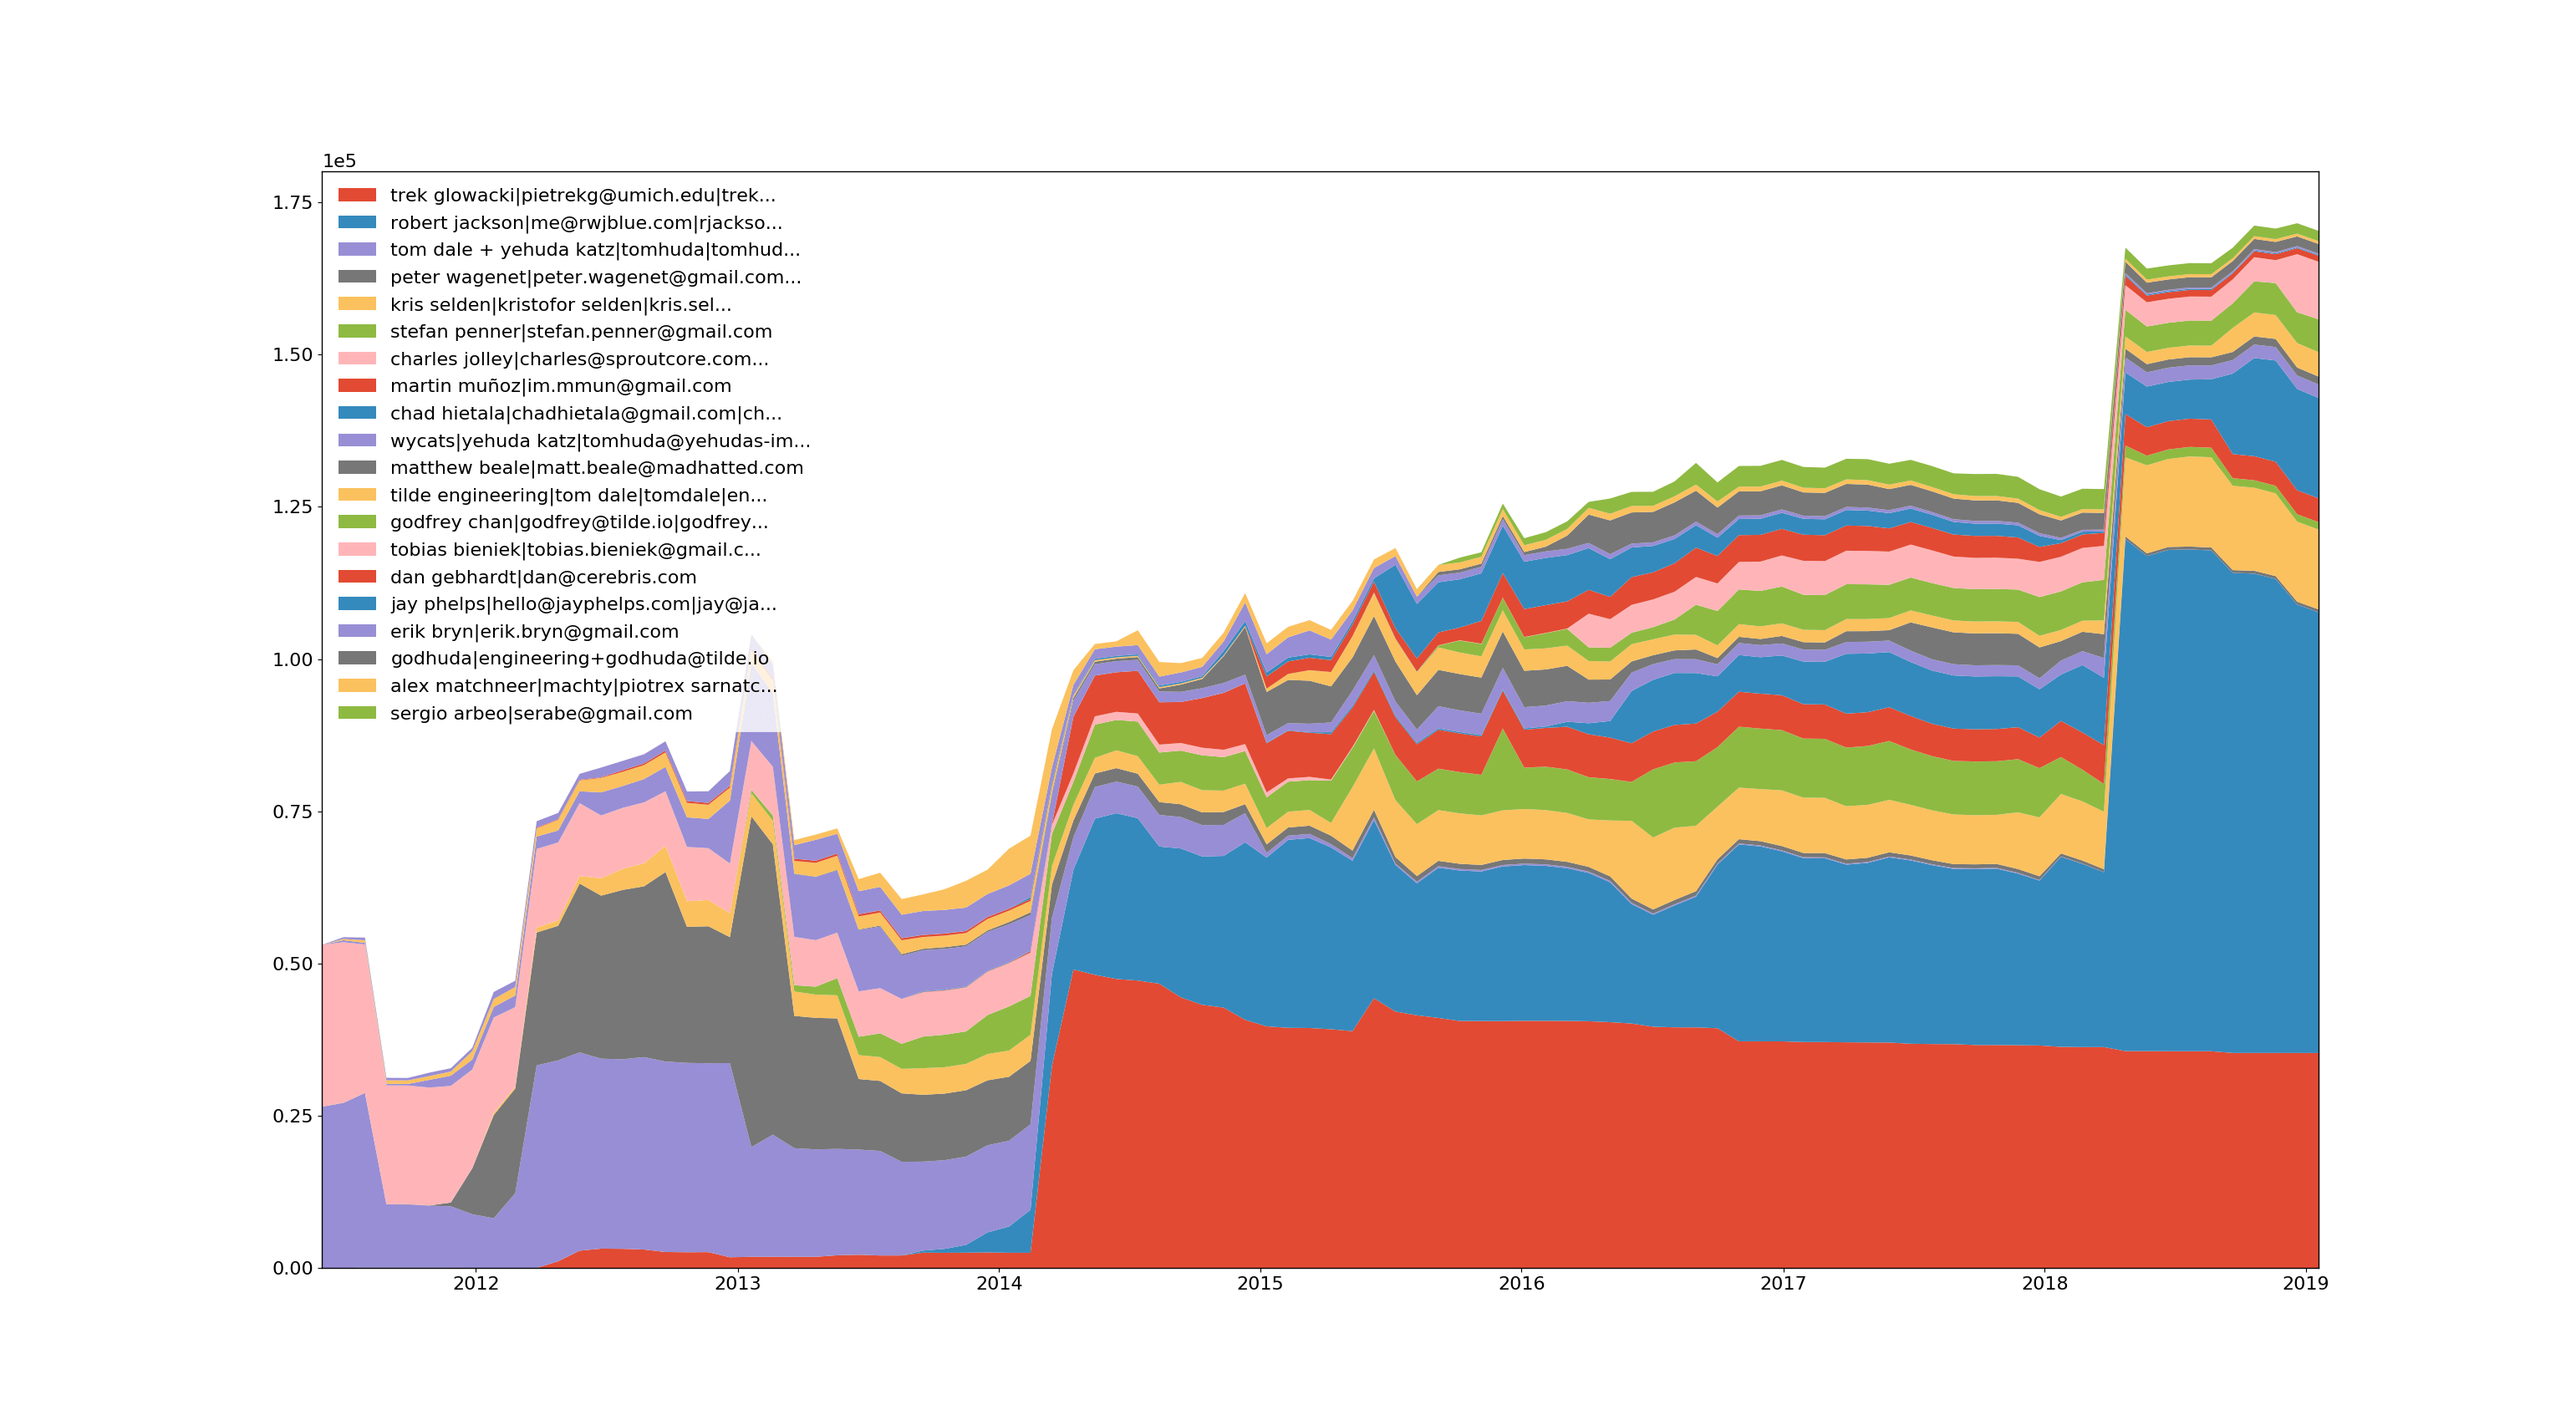
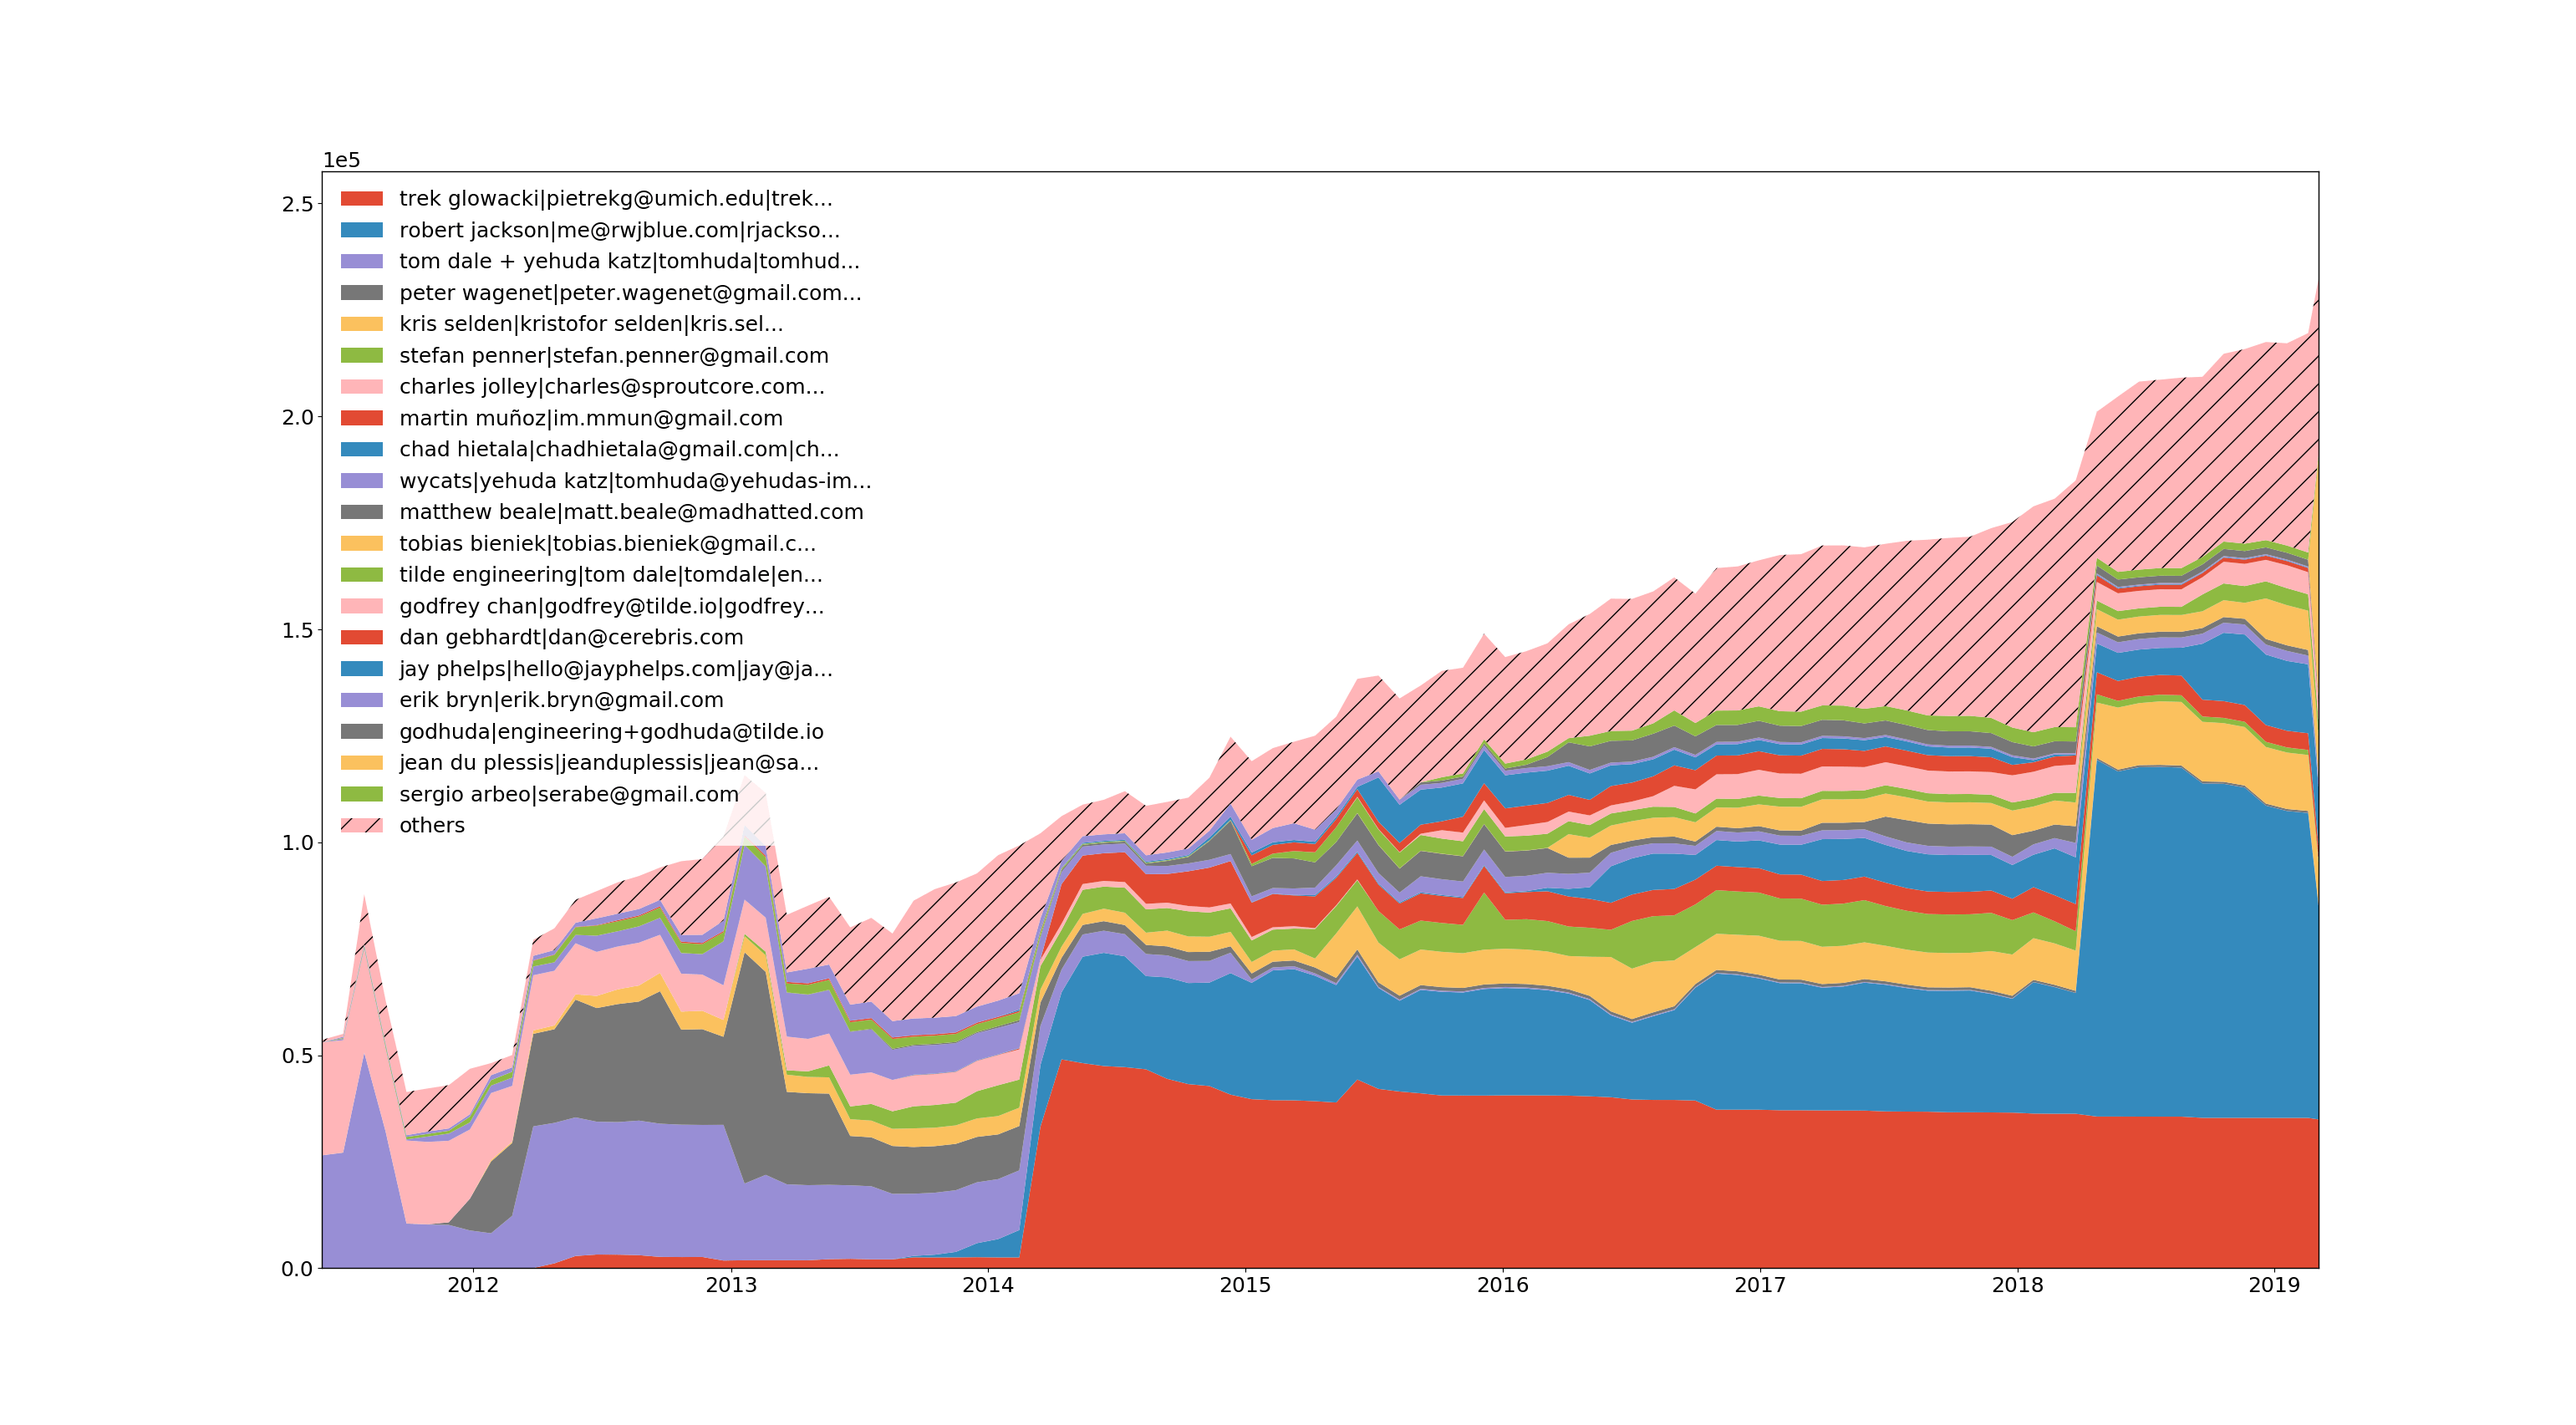
Add "efforts" plot and "others" to ownership

Changed region(s): [[0.1246, 0.1243, 0.9033, 0.9015], [0.218, 0.8704, 0.3115, 0.9015]]

diff --git a/labours.py b/labours.py
@@ -62,8 +62,8 @@ def parse_args():
     parser.add_argument("-m", "--mode",
                         choices=["burndown-project", "burndown-file", "burndown-person",
                                  "churn-matrix", "ownership", "couples-files", "couples-people",
-                                 "couples-shotness", "shotness", "sentiment",
-                                 "devs", "old-vs-new", "all", "run-times", "languages"],
+                                 "couples-shotness", "shotness", "sentiment", "devs",
+                                 "devs-efforts", "old-vs-new", "all", "run-times", "languages"],
                         help="What to plot.")
     parser.add_argument(
         "--resample", default="year",
@@ -662,9 +662,11 @@ def load_ownership(header, sequence, contents, max_people):
 
     if people.shape[0] > max_people:
         order = numpy.argsort(-people.sum(axis=1))
-        people = people[order[:max_people]]
-        sequence = [sequence[i] for i in order[:max_people]]
-        print("Warning: truncated people to most owning %d" % max_people)
+        chosen_people = people[order[:max_people + 1]]
+        chosen_people[max_people] = people[order[max_people:]].sum(axis=0)
+        people = chosen_people
+        sequence = [sequence[i] for i in order[:max_people]] + ["others"]
+        print("Warning: truncated people to the most owning %d" % max_people)
     for i, name in enumerate(sequence):
         if len(name) > 40:
             sequence[i] = name[:37] + "..."
@@ -921,7 +923,9 @@ def plot_ownership(args, repo, names, people, date_range, last):
 
     matplotlib, pyplot = import_pyplot(args.backend, args.style)
 
-    pyplot.stackplot(date_range, people, labels=names)
+    polys = pyplot.stackplot(date_range, people, labels=names)
+    if names[-1] == "others":
+        polys[-1].set_hatch("/")
     pyplot.xlim(parse_date(args.start_date, date_range[0]), parse_date(args.end_date, last))
 
     if args.relative:
@@ -1406,6 +1410,54 @@ def show_devs(args, name, start_date, end_date, data):
     deploy_plot(title, args.output, args.style)
 
 
+def show_devs_efforts(args, name, start_date, end_date, data, max_people):
+    from scipy.signal import convolve, slepian
+
+    days, people = data
+    start_date = datetime.fromtimestamp(start_date)
+    start_date = datetime(start_date.year, start_date.month, start_date.day)
+    end_date = datetime.fromtimestamp(end_date)
+    end_date = datetime(end_date.year, end_date.month, end_date.day)
+
+    efforts_by_dev = defaultdict(int)
+    for day, devs in days.items():
+        for dev, stats in devs.items():
+            efforts_by_dev[dev] += stats.Added + stats.Removed + stats.Changed
+    if len(efforts_by_dev) > max_people:
+        efforts_by_dev = sorted(((v, k) for k, v in efforts_by_dev.items()), reverse=True)
+        chosen = {v for k, v in efforts_by_dev[:max_people]}
+        print("Warning: truncated people to the most active %d" % max_people)
+    else:
+        chosen = set(efforts_by_dev)
+    chosen_efforts = sorted(((efforts_by_dev[k], k) for k in chosen), reverse=True)
+    chosen_order = {k: i for i, (_, k) in enumerate(chosen_efforts)}
+
+    efforts = numpy.zeros((len(chosen) + 1, (end_date - start_date).days + 1), dtype=numpy.float32)
+    for day, devs in days.items():
+        for dev, stats in devs.items():
+            dev = chosen_order.get(dev, len(chosen_order))
+            efforts[dev][day] += stats.Added + stats.Removed + stats.Changed
+    window = slepian(10, 0.5)
+    window /= window.sum()
+    for i in range(efforts.shape[0]):
+        efforts[i] = convolve(efforts[i], window, "same")
+    matplotlib, pyplot = import_pyplot(args.backend, args.style)
+    plot_x = [start_date + timedelta(days=i) for i in range(efforts.shape[1])]
+
+    people = [people[k] for _, k in chosen_efforts] + ["others"]
+    for i, name in enumerate(people):
+        if len(name) > 40:
+            people[i] = name[:37] + "..."
+
+    polys = pyplot.stackplot(plot_x, efforts, labels=people)
+    if len(polys) == max_people + 1:
+        polys[-1].set_hatch("/")
+    legend = pyplot.legend(loc=2, fontsize=args.font_size)
+    apply_plot_style(pyplot.gcf(), pyplot.gca(), legend, args.background,
+                     args.font_size, args.size)
+    deploy_plot("Efforts through time (changed lines of code)", args.output, args.style)
+
+
 def show_old_vs_new(args, name, start_date, end_date, data):
     from scipy.signal import convolve, slepian
 
@@ -1605,6 +1657,15 @@ def main():
             return
         show_devs(args, reader.get_name(), *reader.get_header(), data)
 
+    def devs_efforts():
+        try:
+            data = reader.get_devs()
+        except KeyError:
+            print(devs_warning)
+            return
+        show_devs_efforts(args, reader.get_name(), *reader.get_header(), data,
+                          max_people=args.max_people)
+
     def old_vs_new():
         try:
             data = reader.get_devs()
@@ -1634,6 +1695,7 @@ def main():
         "shotness": shotness,
         "sentiment": sentiment,
         "devs": devs,
+        "devs-efforts": devs_efforts,
         "old-vs-new": old_vs_new,
         "languages": languages,
     }
@@ -1652,6 +1714,7 @@ def main():
         shotness()
         sentiment()
         devs()
+        devs_efforts()
 
     if web_server.running:
         secs = int(os.getenv("COUPLES_SERVER_TIME", "60"))
